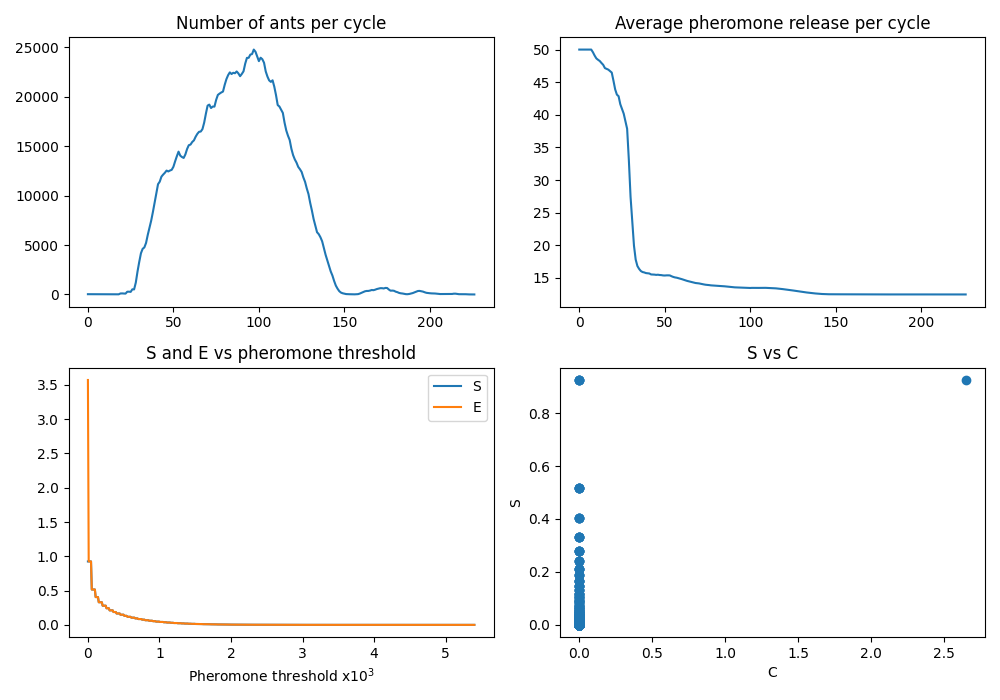
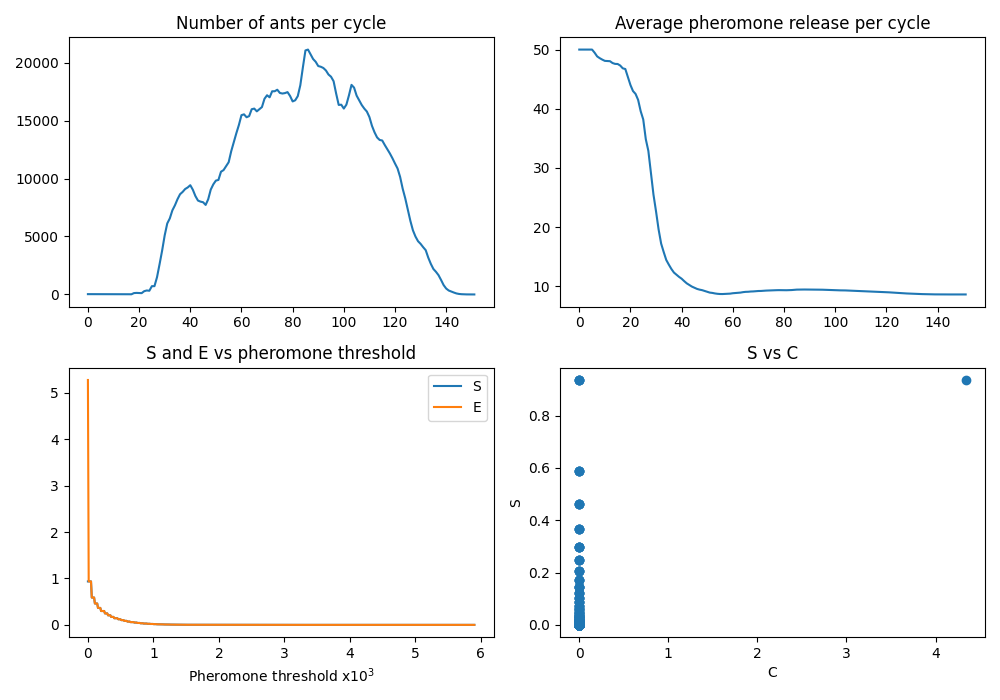
updated assets

diff --git a/src/main.py b/src/main.py
@@ -502,8 +502,8 @@ if __name__ == "__main__":
     np.copyto(pheromone_map, pheromone_map_init)
 
     n_iteration = 0
-    energy_death = 0.3
-    energy_reproduction = 1.25
+    energy_death = 1.
+    energy_reproduction = 1.3
     ant_number = []
     pheromone_mean_sum = 0
     pheromone_mean_array = []
